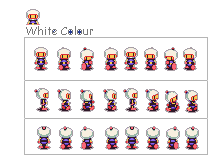
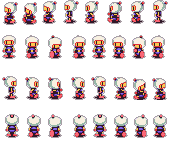
Cropped and fixed bomberman pic

diff --git a/public/index.htm b/public/index.htm
@@ -40,9 +40,9 @@
       var MAP_WIDTH = CANVAS_WIDTH / TILE_WIDTH;
       var MAP_HEIGHT = CANVAS_HEIGHT / TILE_HEIGHT;
       var BOMBERMAN_HEIGHT = 25;
-      var BOMBERMAN_WIDTH = 14;
-      var BOMBERMAN_POS_X = 34;
-      var BOMBERMAN_POS_Y = 46;
+      var BOMBERMAN_WIDTH = 20;
+      var BOMBERMAN_POS_X = 0;
+      var BOMBERMAN_POS_Y = 35;
       var START_X = TILE_WIDTH;
       var START_Y = TILE_HEIGHT;
       var TICKS_PER_FRAME = 15;
@@ -98,12 +98,13 @@
         collision: { x: -8, y: -8, w: 16, h: 16},
         graphics: {x:-8,y:-16,w:16,h:24},
         movement : [{x: -100, y:0},{x: 100,y:0},{x:0,y:-100},{x:0,y:100}],
-        
+        pos: {x: BOMBERMAN_POS_X, y: BOMBERMAN_POS_Y},
+
         draw: function(){
             for(var i=0;i < this.bombs.length;i++){
                 this.bombs[i].draw();
             }
-            ctx.drawImage(bomberman, BOMBERMAN_POS_X , BOMBERMAN_POS_Y, BOMBERMAN_WIDTH, BOMBERMAN_HEIGHT, this.x+this.graphics.x, this.y+this.graphics.y, BOMBERMAN_WIDTH, BOMBERMAN_HEIGHT);
+            ctx.drawImage(bomberman, this.pos.x , this.pos.y, BOMBERMAN_WIDTH, BOMBERMAN_HEIGHT, this.x+this.graphics.x, this.y+this.graphics.y, BOMBERMAN_WIDTH, BOMBERMAN_HEIGHT);
 
         },
 
@@ -172,7 +173,6 @@
         },
         bomb: function(){
             if(this.bombs.length>=this.maxBombs) return;
-            
             new Bomb(this);
         }
       }
@@ -406,7 +406,6 @@
             start();
           };
         };
-
       }
 
       init();
